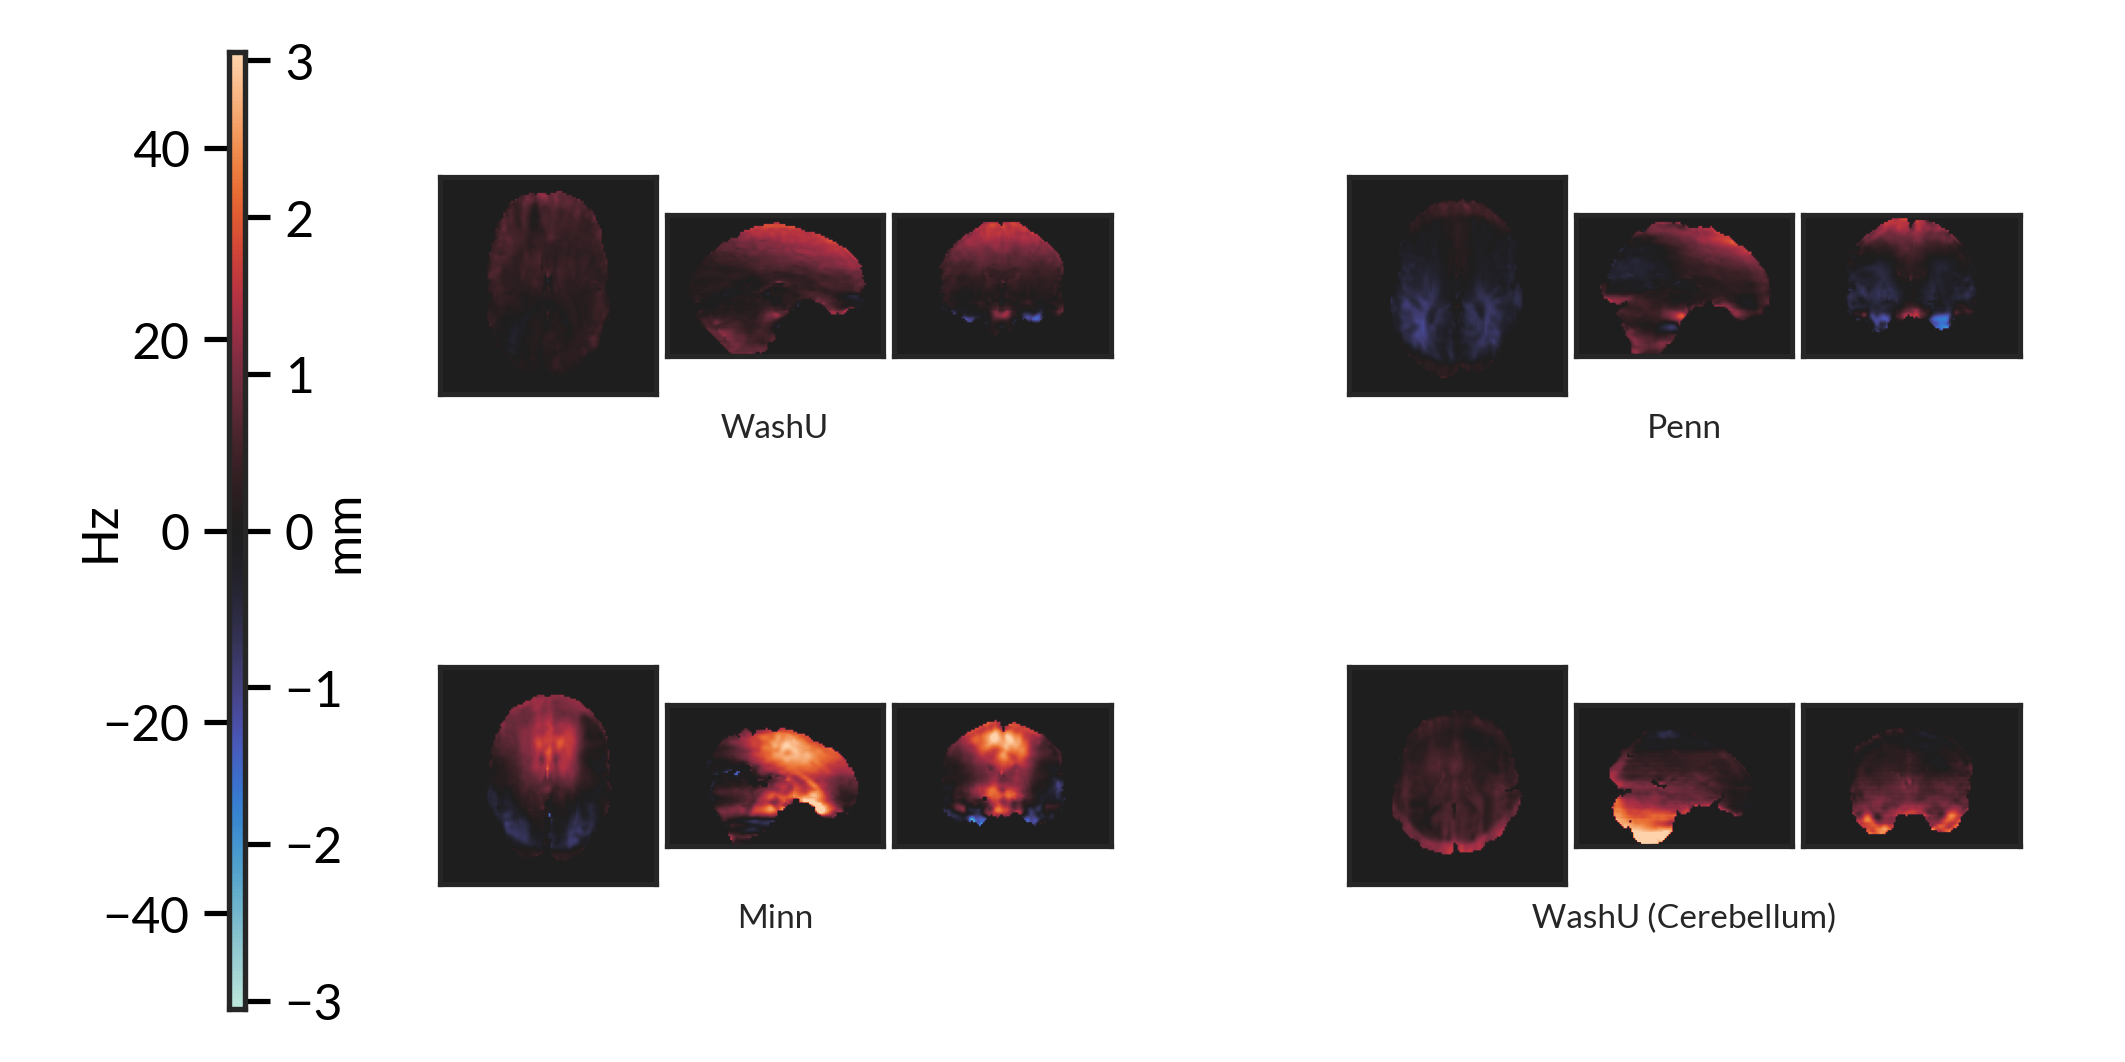
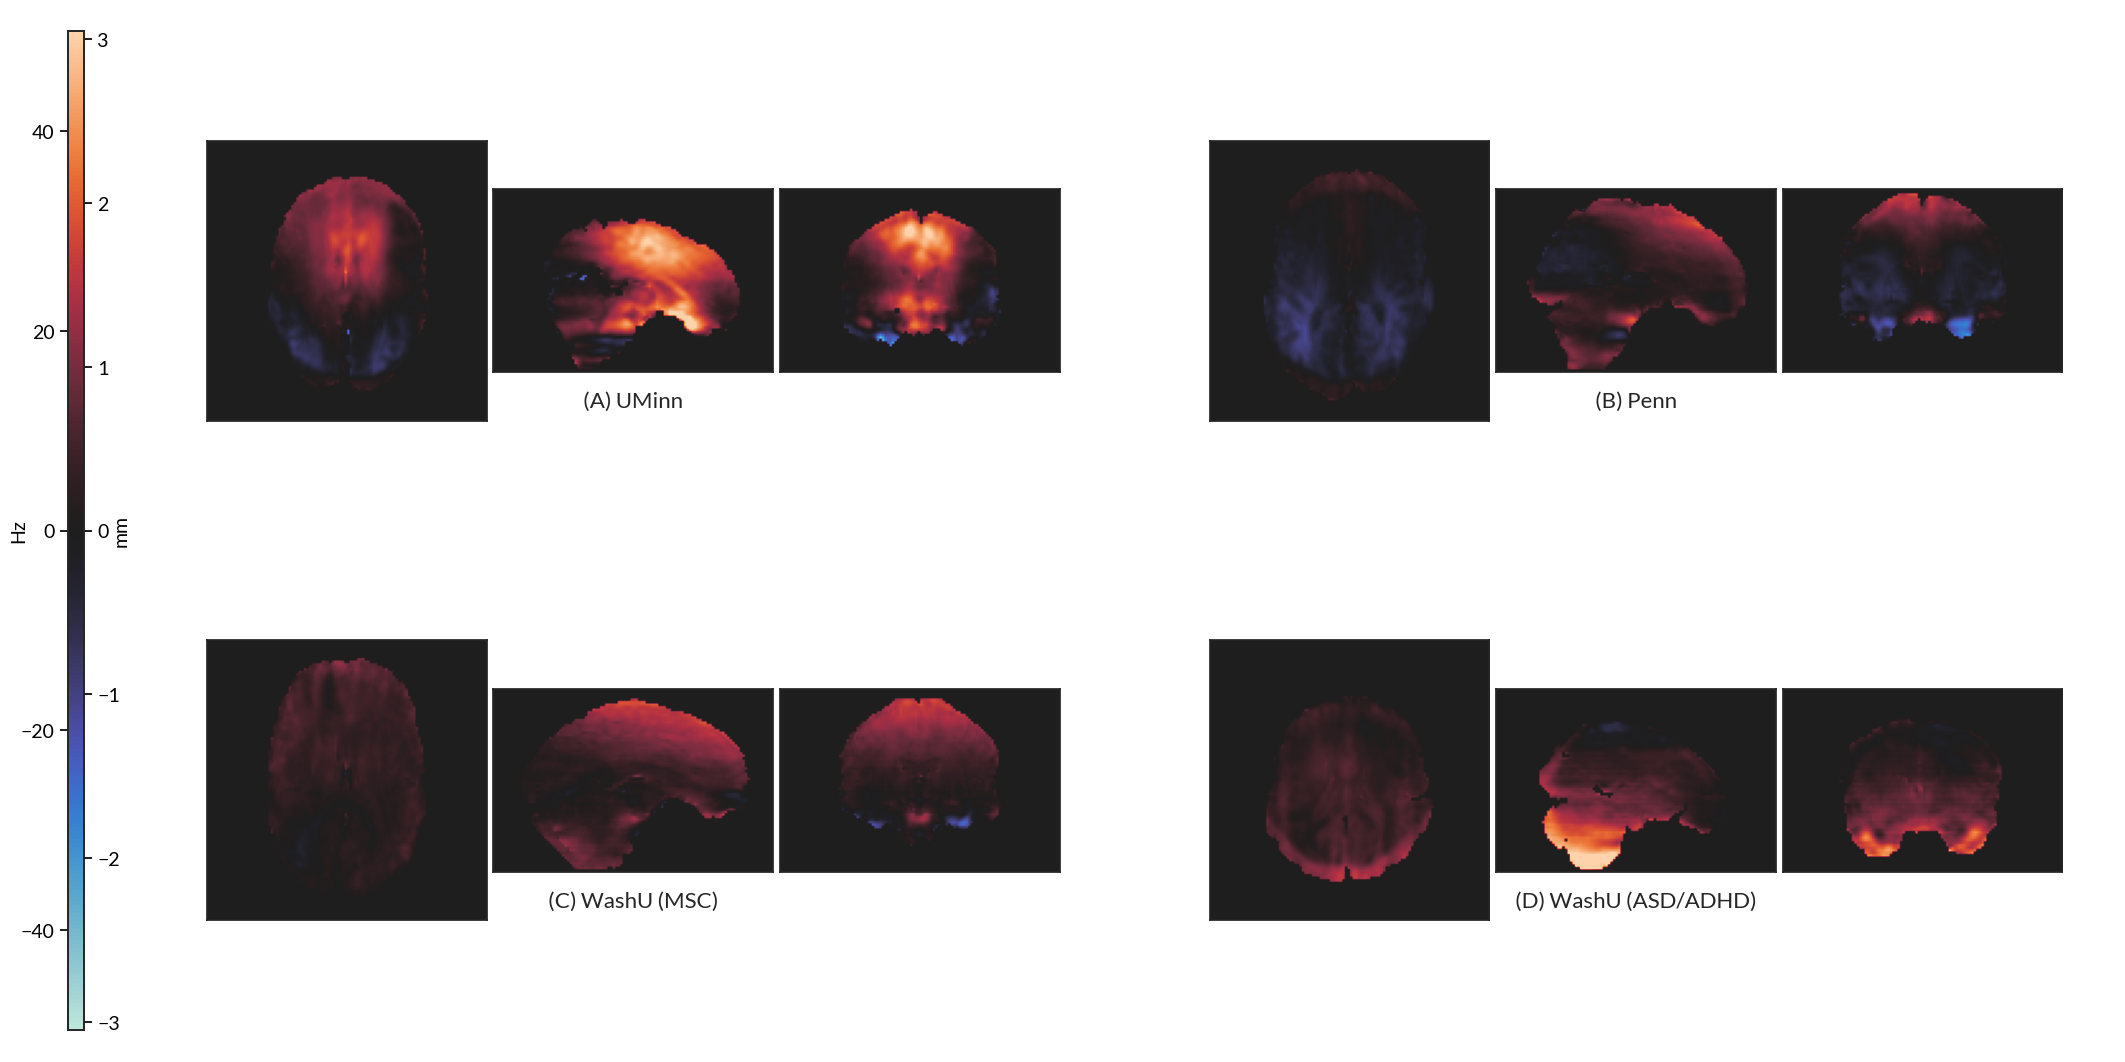
:sparkles: update

Changed region(s): [[0.0311, 0.0311, 0.528, 0.9633], [0.5591, 0.5904, 0.9939, 0.8701], [0.5591, 0.1243, 0.9939, 0.404]]

diff --git a/MEDIC3/medic_presentation.html b/MEDIC3/medic_presentation.html
@@ -374,34 +374,64 @@ PEpolar correction</h2>
 <div class="r-stack">
 <div class="element: fragment current-visible">
 <figure>
+<img data-src="imgs/anatomical_align/UMinn_medic.png"
+alt="UMinn: MEDIC corrected" />
+<figcaption aria-hidden="true">UMinn: MEDIC corrected</figcaption>
+</figure>
+</div>
+<div class="element: fragment current-visible">
+<figure>
+<img data-src="imgs/anatomical_align/UMinn_topup.png"
+alt="UMinn: PEpolar (TOPUP) corrected" />
+<figcaption aria-hidden="true">UMinn: PEpolar (TOPUP)
+corrected</figcaption>
+</figure>
+</div>
+<div class="element: fragment current-visible">
+<figure>
 <img data-src="imgs/anatomical_align/UPenn_medic.png"
-alt="MEDIC corrected" />
-<figcaption aria-hidden="true">MEDIC corrected</figcaption>
+alt="Penn MEDIC corrected" />
+<figcaption aria-hidden="true">Penn MEDIC corrected</figcaption>
 </figure>
 </div>
 <div class="element: fragment current-visible">
 <figure>
 <img data-src="imgs/anatomical_align/UPenn_topup.png"
-alt="PEpolar (TOPUP) corrected" />
-<figcaption aria-hidden="true">PEpolar (TOPUP) corrected</figcaption>
+alt="Penn PEpolar (TOPUP) corrected" />
+<figcaption aria-hidden="true">Penn PEpolar (TOPUP)
+corrected</figcaption>
 </figure>
 </div>
-<!-- :::{.element: class="fragment current-visible"}
-
-![MSC: MEDIC corrected](imgs/anatomical_align/MSCHD02_medic.png)
-:::
-:::{.element: class="fragment current-visible"}
-
-![MSC: PEpolar (TOPUP) corrected](imgs/anatomical_align/MSCHD02_topup.png)
-:::
-:::{.element: class="fragment current-visible"}
-
-![ASD/ADHD: MEDIC corrected](imgs/anatomical_align/NP1173_medic.png)
-:::
-:::{.element: class="fragment current-visible"}
-
-![ASD/ADHD: PEpolar (TOPUP) corrected](imgs/anatomical_align/NP1173_topup.png)
-::: -->
+<div class="element: fragment current-visible">
+<figure>
+<img data-src="imgs/anatomical_align/MSCHD02_medic.png"
+alt="MSC: MEDIC corrected" />
+<figcaption aria-hidden="true">MSC: MEDIC corrected</figcaption>
+</figure>
+</div>
+<div class="element: fragment current-visible">
+<figure>
+<img data-src="imgs/anatomical_align/MSCHD02_topup.png"
+alt="MSC: PEpolar (TOPUP) corrected" />
+<figcaption aria-hidden="true">MSC: PEpolar (TOPUP)
+corrected</figcaption>
+</figure>
+</div>
+<div class="element: fragment current-visible">
+<figure>
+<img data-src="imgs/anatomical_align/washu2_medic.png"
+alt="ASD/ADHD: MEDIC corrected" />
+<figcaption aria-hidden="true">ASD/ADHD: MEDIC corrected</figcaption>
+</figure>
+</div>
+<div class="element: fragment current-visible">
+<figure>
+<img data-src="imgs/anatomical_align/washu2_topup.png"
+alt="ASD/ADHD: PEpolar (TOPUP) corrected" />
+<figcaption aria-hidden="true">ASD/ADHD: PEpolar (TOPUP)
+corrected</figcaption>
+</figure>
+</div>
 </div>
 </section>
 
@@ -694,6 +724,65 @@ it is correcting.
 <li>Can account for field changes due to head motion</li>
 </ul></li>
 </ul>
+</section>
+
+<section id="extras" class="title-slide slide level2">
+<h2>Extras</h2>
+
+</section>
+
+<section id="medic-corrects-repiration-effects-in-motion-parameters."
+class="title-slide slide level2">
+<h2>MEDIC corrects repiration effects in motion parameters.</h2>
+<div class="r-stack">
+<div class="element: fragment current-visible">
+<figure>
+<img data-src="imgs/motion_traces.png"
+alt="Motion Parameters Pre/Post MEDIC Correction" />
+<figcaption aria-hidden="true">Motion Parameters Pre/Post MEDIC
+Correction</figcaption>
+</figure>
+</div>
+<div class="element: fragment current-visible">
+<figure>
+<img data-src="imgs/power_spectra.png"
+alt="Power Spectral Density of Motion Parameters Pre/Post MEDIC Correction" />
+<figcaption aria-hidden="true">Power Spectral Density of Motion
+Parameters Pre/Post MEDIC Correction</figcaption>
+</figure>
+</div>
+<div class="element: fragment current-visible">
+<figure>
+<img data-src="imgs/FD.png"
+alt="Framewise Displacement Pre/Post MEDIC Correction" />
+<figcaption aria-hidden="true">Framewise Displacement Pre/Post MEDIC
+Correction</figcaption>
+</figure>
+</div>
+</div>
+</section>
+
+<section id="signal-crosstalk-in-field-map-correlation"
+class="title-slide slide level2">
+<h2>Signal crosstalk in field map correlation?</h2>
+<div class="r-stack">
+<div class="element: fragment current-visible">
+<figure>
+<img data-src="imgs/interleave_72_and_ascending.png"
+alt="Seed Correlation, 72 Slice Interleave (Top) and Ascending (Bottom)" />
+<figcaption aria-hidden="true">Seed Correlation, 72 Slice Interleave
+(Top) and Ascending (Bottom)</figcaption>
+</figure>
+</div>
+<div class="element: fragment current-visible">
+<figure>
+<img data-src="imgs/interleave_78.png"
+alt="Seed Correlation, 78 Slice Interleave" />
+<figcaption aria-hidden="true">Seed Correlation, 78 Slice
+Interleave</figcaption>
+</figure>
+</div>
+</div>
 </section>
     </div>
   </div>

diff --git a/MEDIC3/medic_presentation.md b/MEDIC3/medic_presentation.md
@@ -205,13 +205,21 @@ $$y_{undistorted} = y_{distorted} - \Delta r(x, y_{distorted})$$
 <div class="r-stack">
 :::{.element: class="fragment current-visible"}
 
-![MEDIC corrected](imgs/anatomical_align/UPenn_medic.png)
+![UMinn: MEDIC corrected](imgs/anatomical_align/UMinn_medic.png)
 :::
 :::{.element: class="fragment current-visible"}
 
-![PEpolar (TOPUP) corrected](imgs/anatomical_align/UPenn_topup.png)
+![UMinn: PEpolar (TOPUP) corrected](imgs/anatomical_align/UMinn_topup.png)
 :::
-<!-- :::{.element: class="fragment current-visible"}
+:::{.element: class="fragment current-visible"}
+
+![Penn MEDIC corrected](imgs/anatomical_align/UPenn_medic.png)
+:::
+:::{.element: class="fragment current-visible"}
+
+![Penn PEpolar (TOPUP) corrected](imgs/anatomical_align/UPenn_topup.png)
+:::
+:::{.element: class="fragment current-visible"}
 
 ![MSC: MEDIC corrected](imgs/anatomical_align/MSCHD02_medic.png)
 :::
@@ -221,12 +229,12 @@ $$y_{undistorted} = y_{distorted} - \Delta r(x, y_{distorted})$$
 :::
 :::{.element: class="fragment current-visible"}
 
-![ASD/ADHD: MEDIC corrected](imgs/anatomical_align/NP1173_medic.png)
+![ASD/ADHD: MEDIC corrected](imgs/anatomical_align/washu2_medic.png)
 :::
 :::{.element: class="fragment current-visible"}
 
-![ASD/ADHD: PEpolar (TOPUP) corrected](imgs/anatomical_align/NP1173_topup.png)
-::: -->
+![ASD/ADHD: PEpolar (TOPUP) corrected](imgs/anatomical_align/washu2_topup.png)
+:::
 </div>
 
 ## MEDIC captures additional off-resonance effects.
@@ -342,3 +350,30 @@ In ASD/ADHD dataset, tSNR was not significantly different between MEDIC and TOPU
   - No need for co-registration of field map to EPI data
   - Removes separate sequence for field map acquisition
   - Can account for field changes due to head motion
+
+## Extras
+
+## MEDIC corrects repiration effects in motion parameters.
+
+<div class="r-stack">
+:::{.element: class="fragment current-visible"}
+![Motion Parameters Pre/Post MEDIC Correction](imgs/motion_traces.png)
+:::
+:::{.element: class="fragment current-visible"}
+![Power Spectral Density of Motion Parameters Pre/Post MEDIC Correction](imgs/power_spectra.png)
+:::
+:::{.element: class="fragment current-visible"}
+![Framewise Displacement Pre/Post MEDIC Correction](imgs/FD.png)
+:::
+</div>
+
+## Signal crosstalk in field map correlation?
+
+<div class="r-stack">
+:::{.element: class="fragment current-visible"}
+![Seed Correlation, 72 Slice Interleave (Top) and Ascending (Bottom)](imgs/interleave_72_and_ascending.png)
+:::
+:::{.element: class="fragment current-visible"}
+![Seed Correlation, 78 Slice Interleave](imgs/interleave_78.png)
+:::
+</div>
